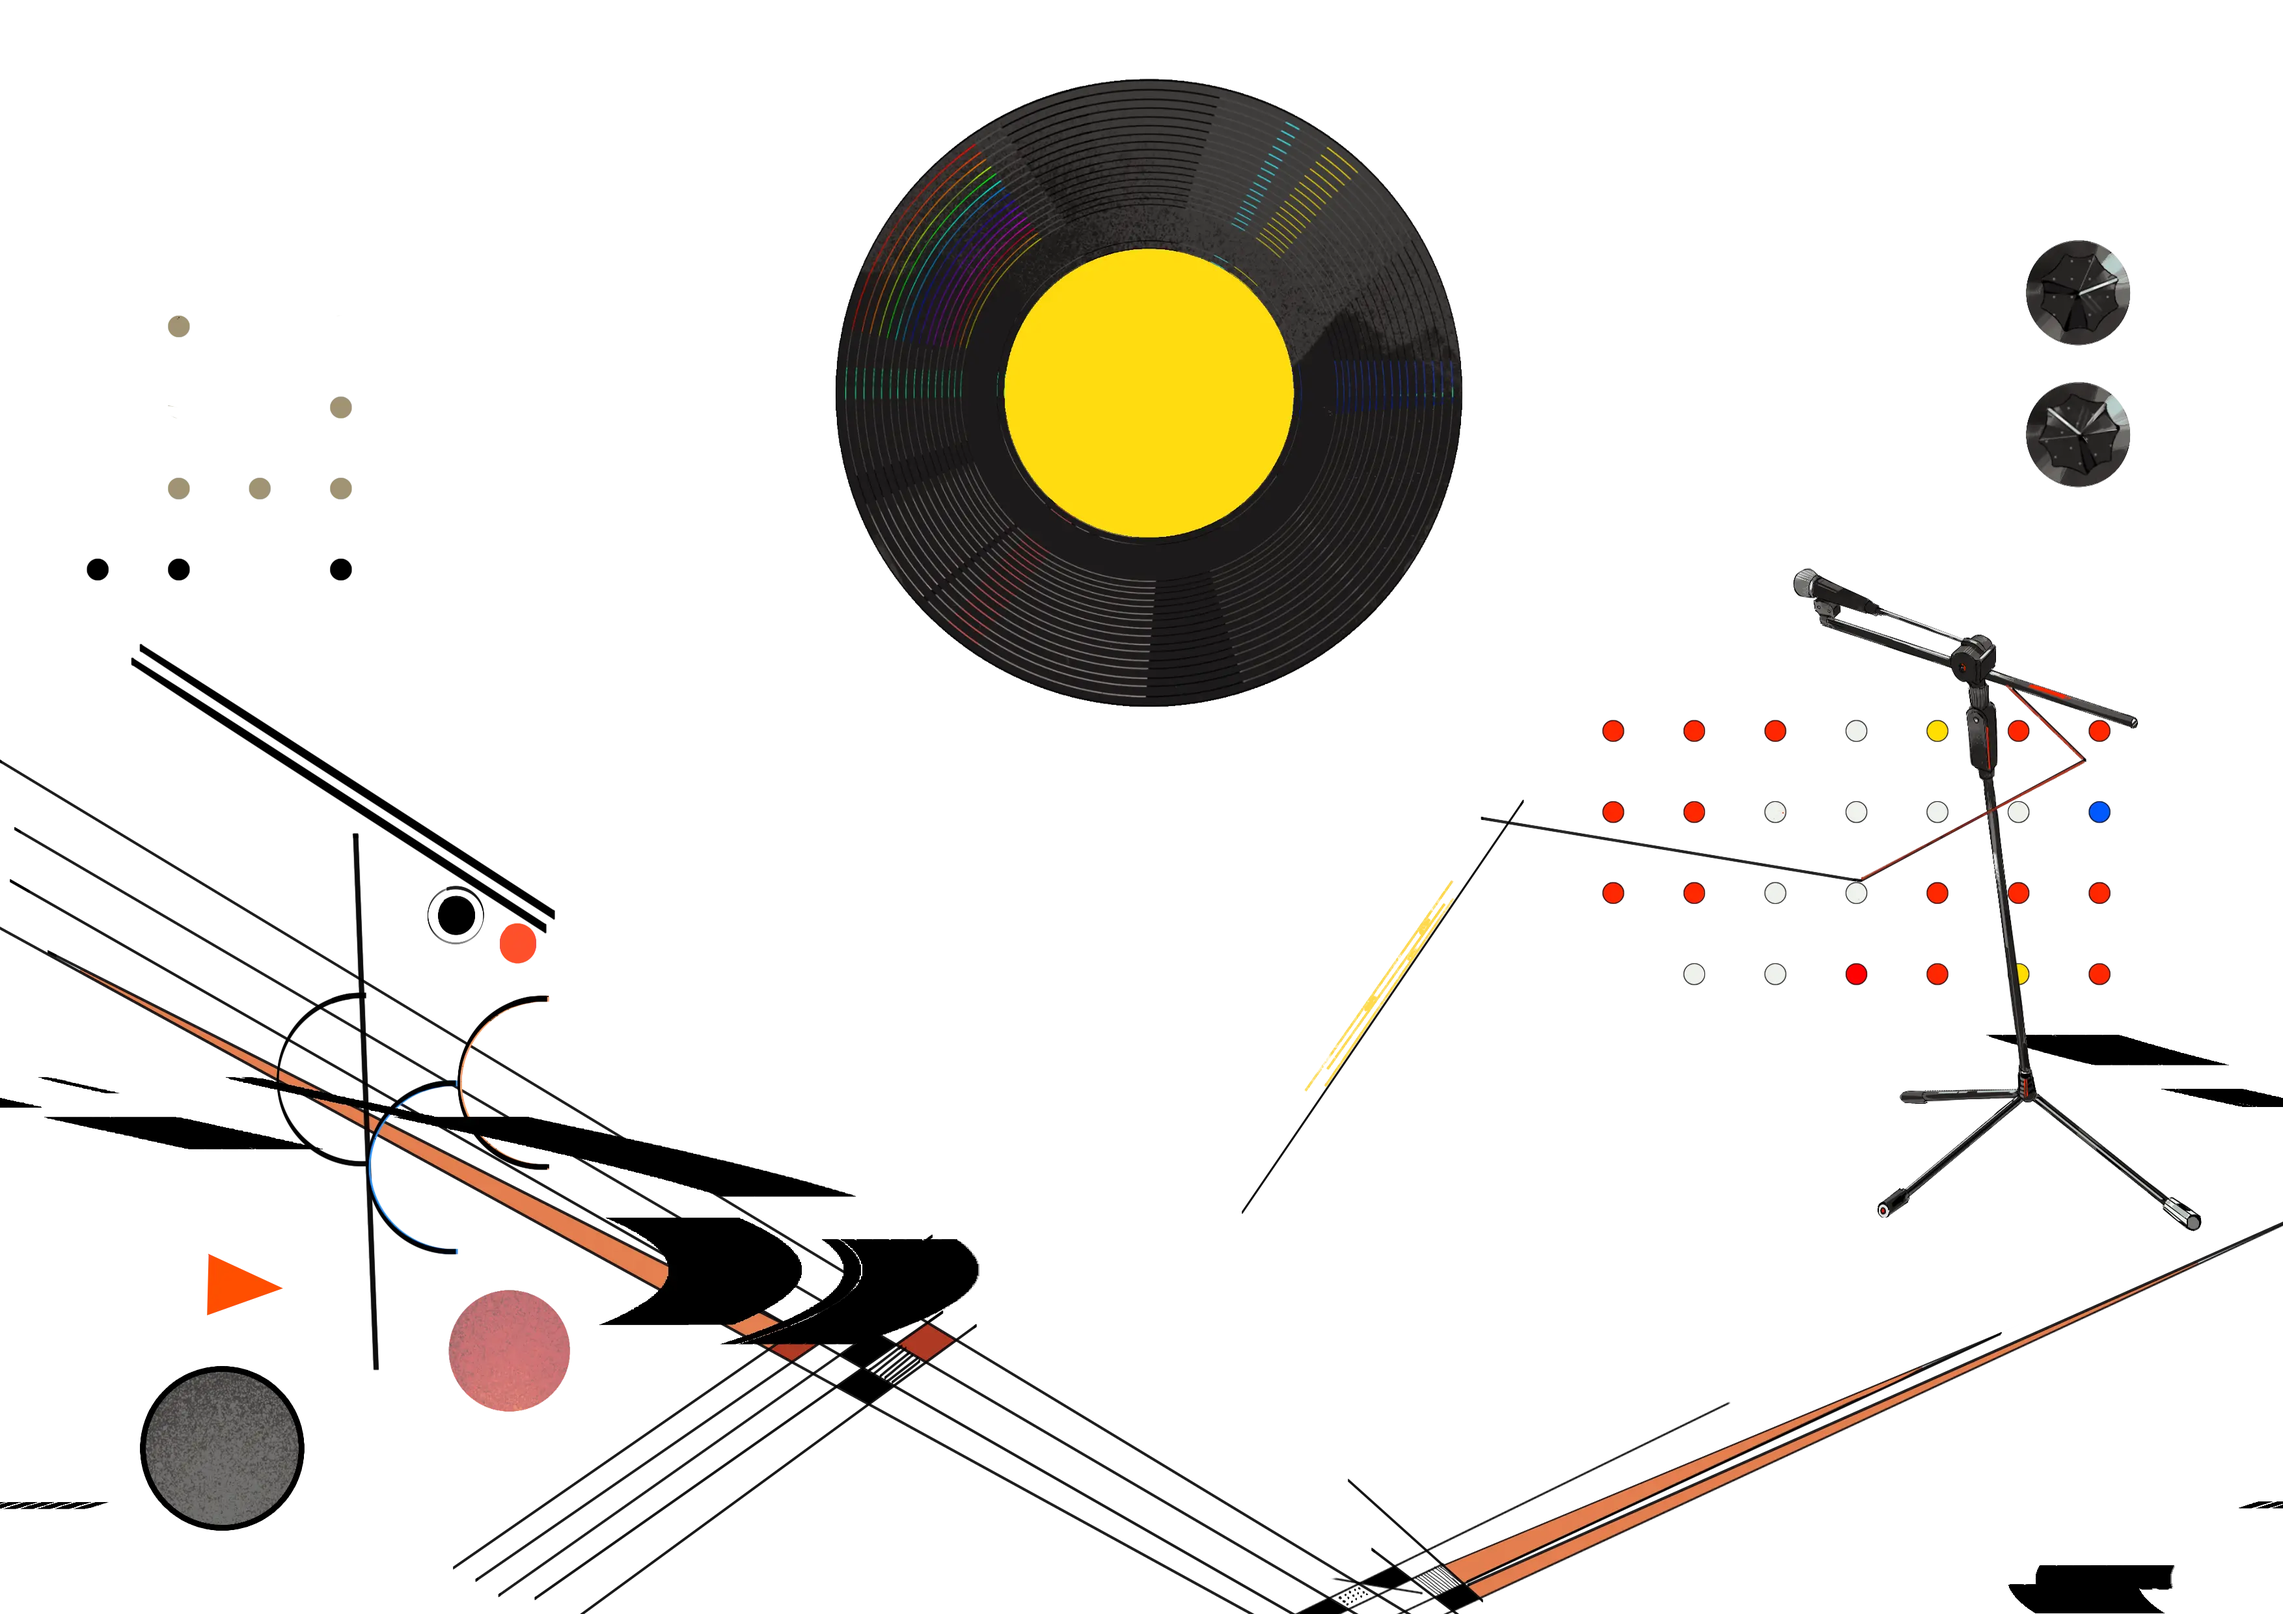
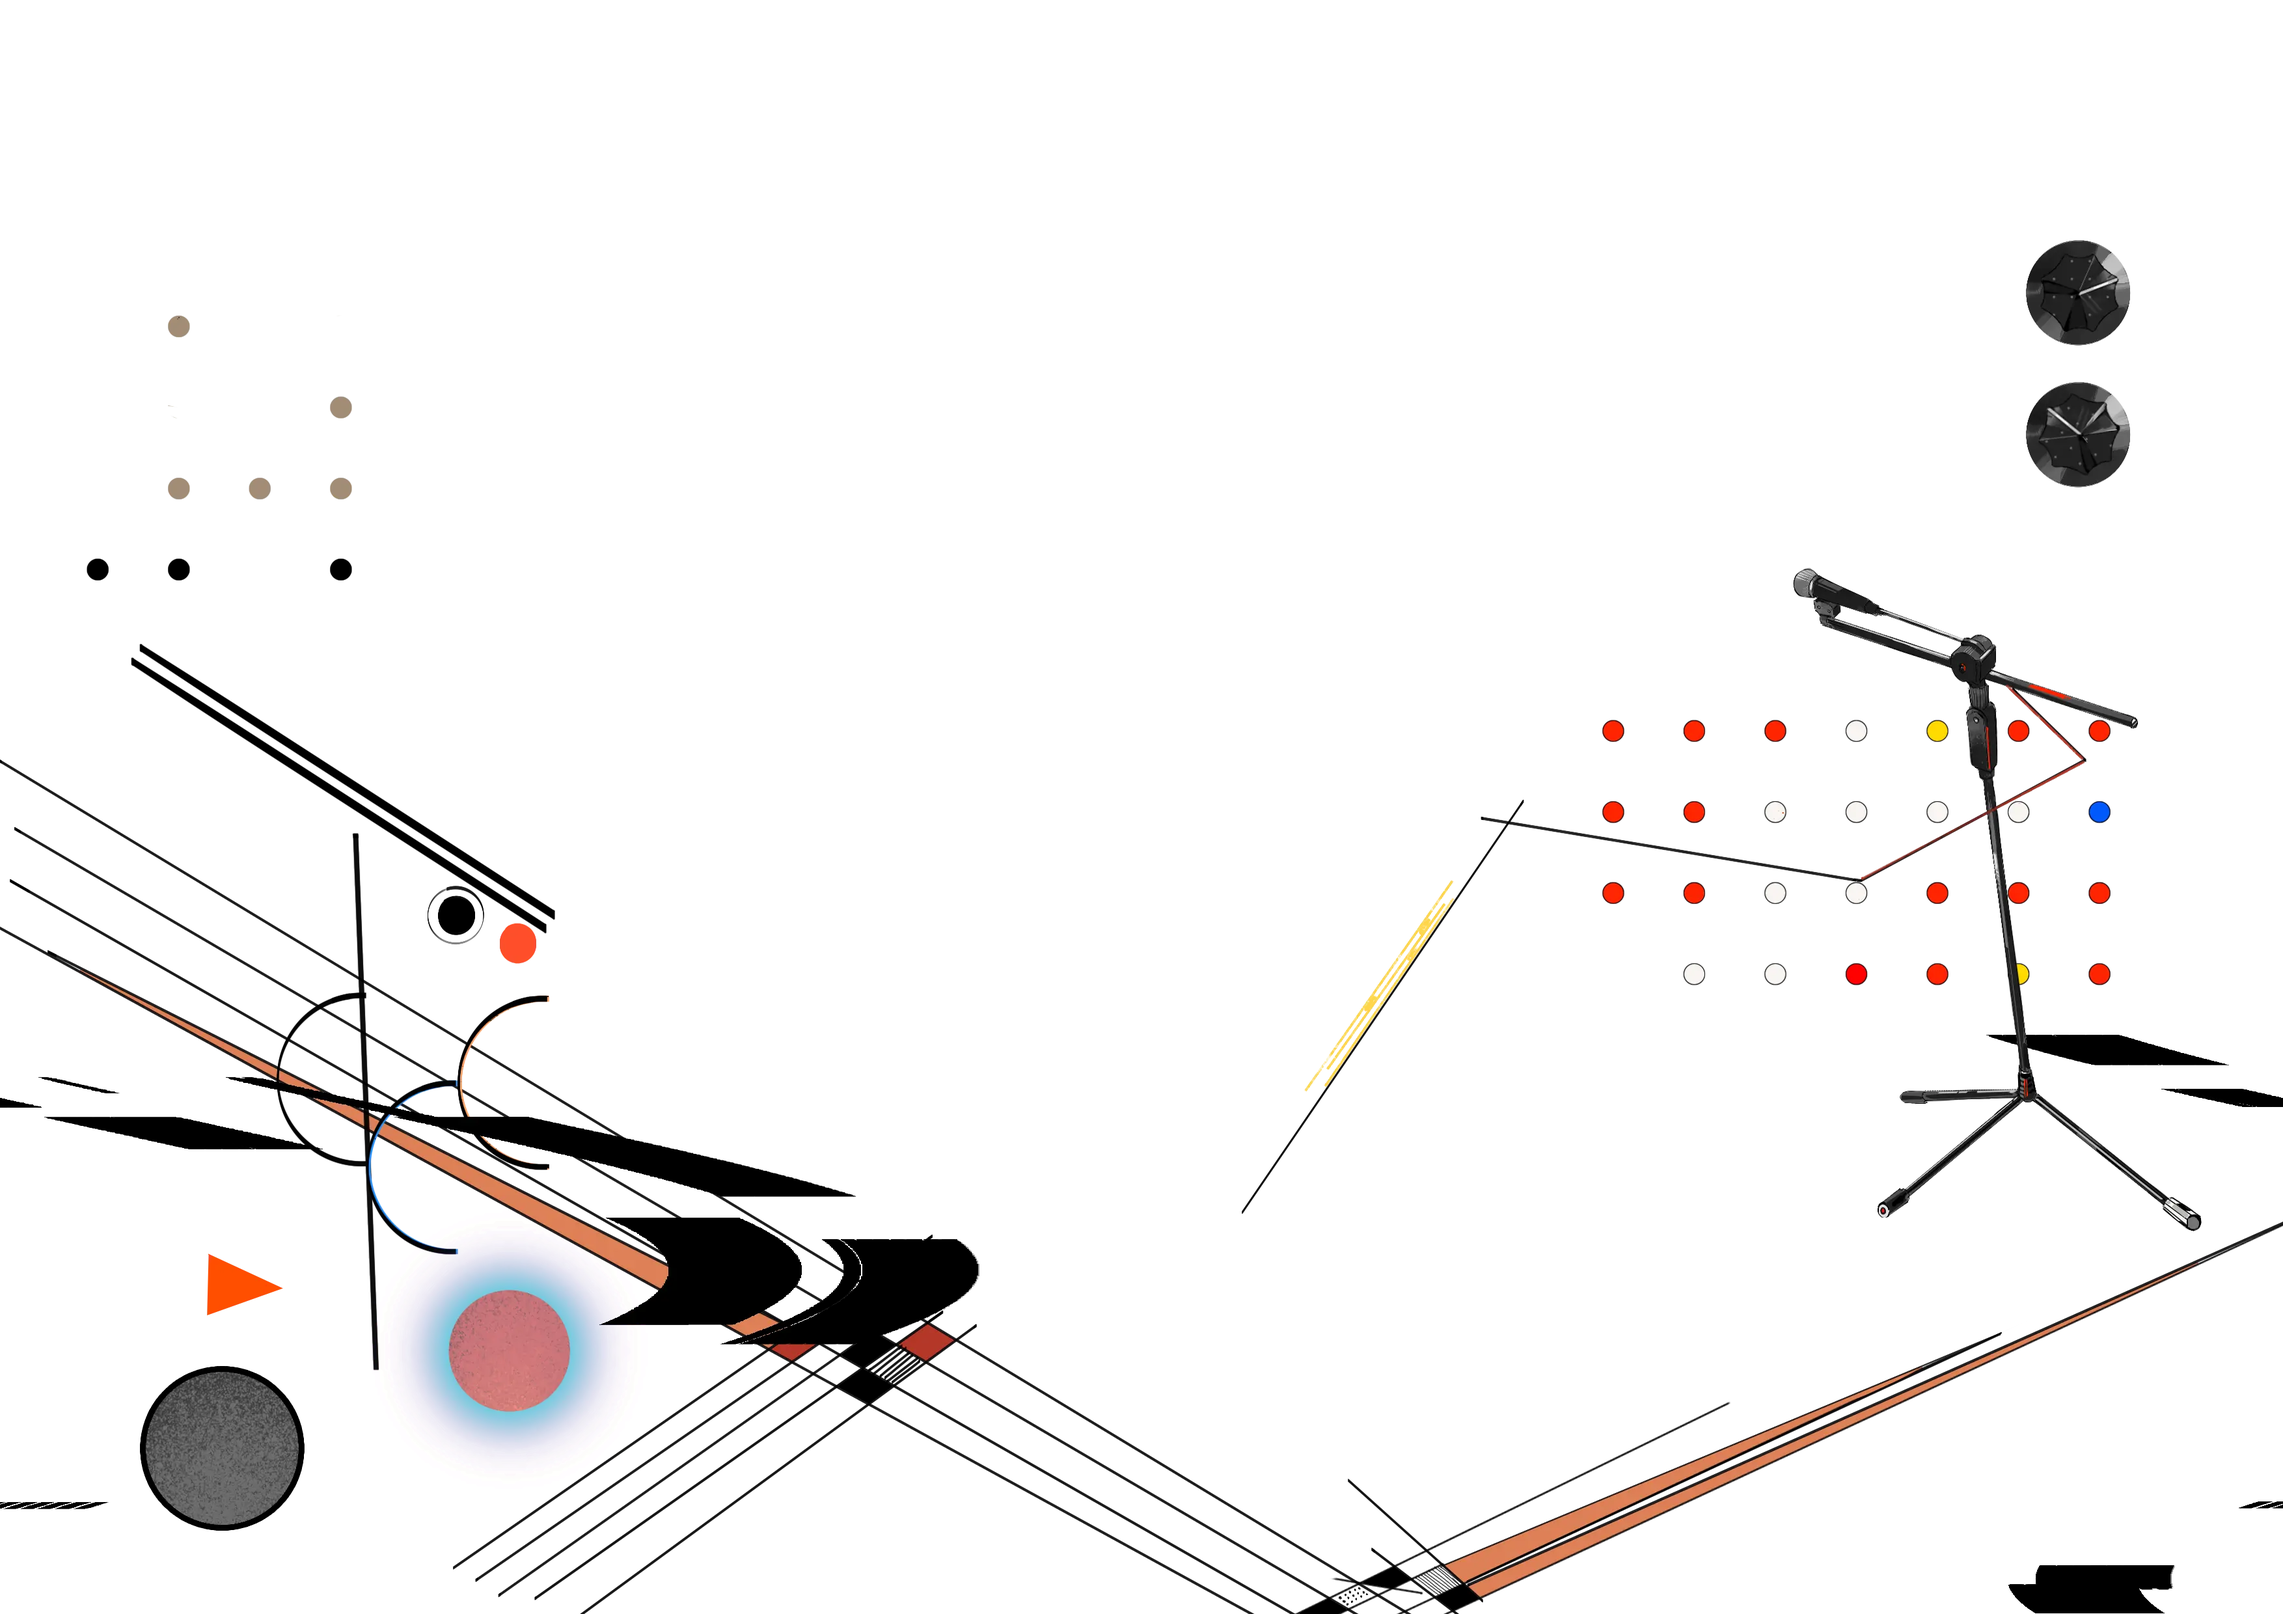
feat(index, css): you spin me around

Changed region(s): [[0.3418, 0.031, 0.6525, 0.4347], [0.1554, 0.7762, 0.2796, 0.9004]]

diff --git a/index.html b/index.html
@@ -41,6 +41,7 @@
         <section class="dream" style="--progress: 0;">
             <div class="view">
                 <figure class="assembly">
+                    <img class="back disk" src="assets/dream/disk.webp" alt="Сон">
                     <img class="back" src="assets/dream/back.webp" alt="Сон">
                     <img class="middle" src="assets/dream/middle.webp" alt="Сон">
                     <img class="front" src="assets/dream/front.webp" alt="Сон">

diff --git a/css/dream.css b/css/dream.css
@@ -40,6 +40,11 @@
     width: calc(100vw - 22rem - 33rem * (1 - var(--progress)));
 }
 
+.dream figure > img.disk {
+    transform: rotateZ(calc(360deg * var(--cursor-h, 0)));
+    transform-origin: 50% 24.2742%;
+}
+
 .dream figure > img.back {
     left: calc(var(--cursor-range) * var(--cursor-h, 0));
     top: calc(var(--cursor-range) * var(--cursor-v, 0));
